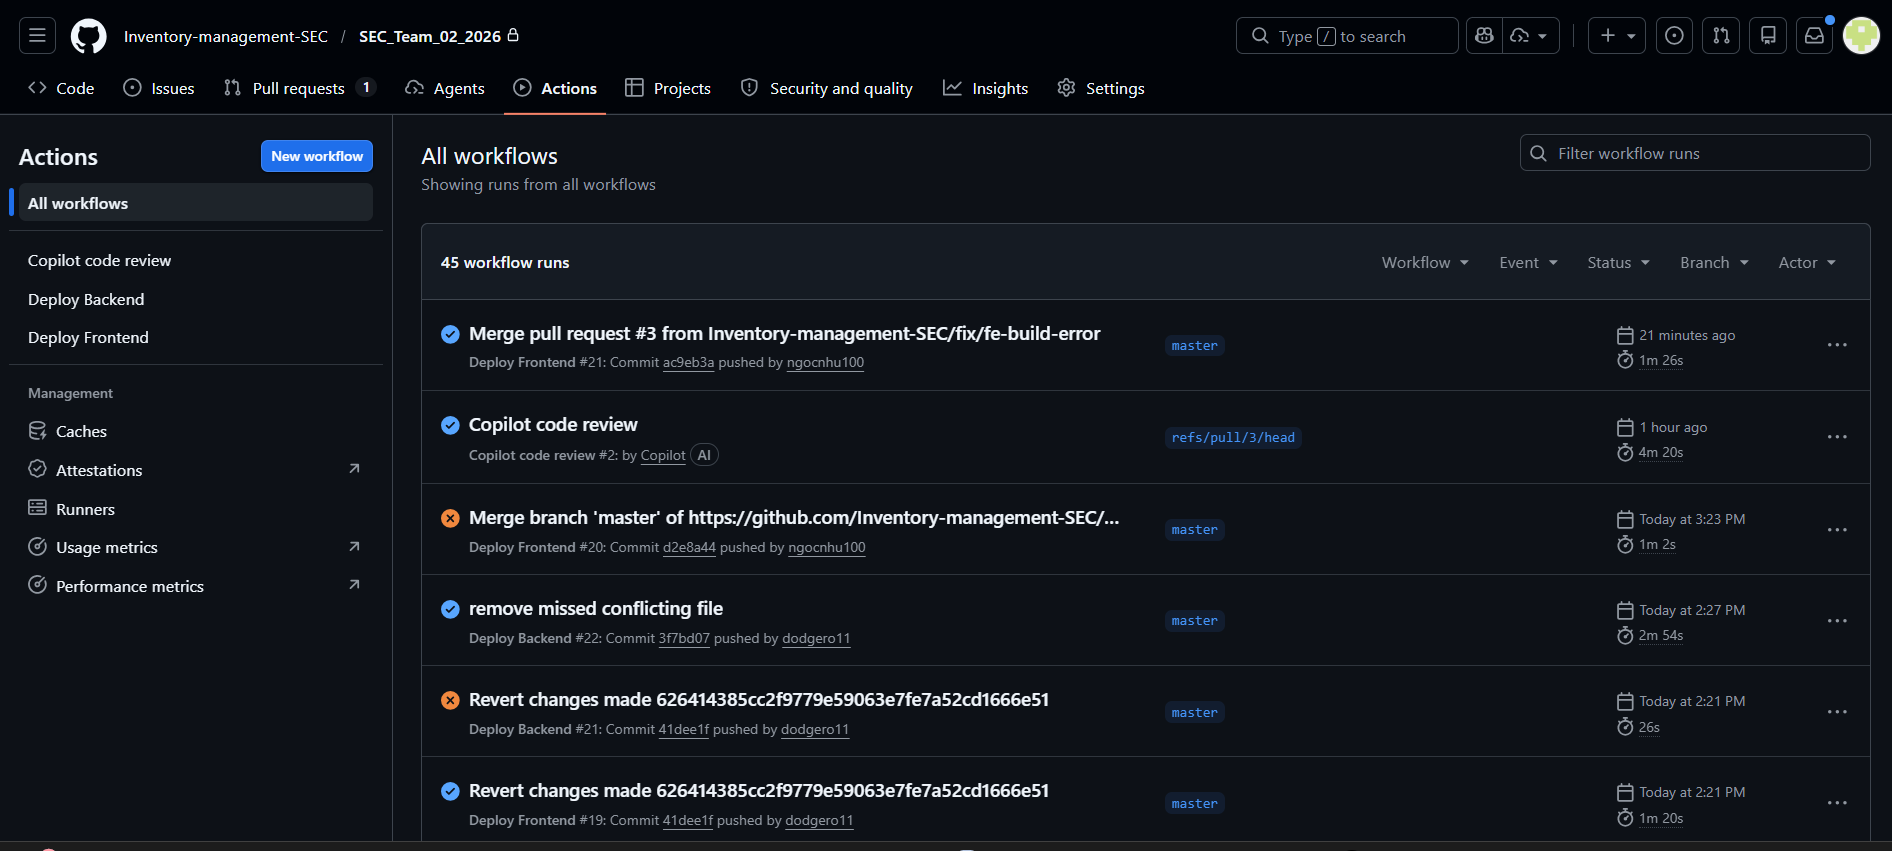
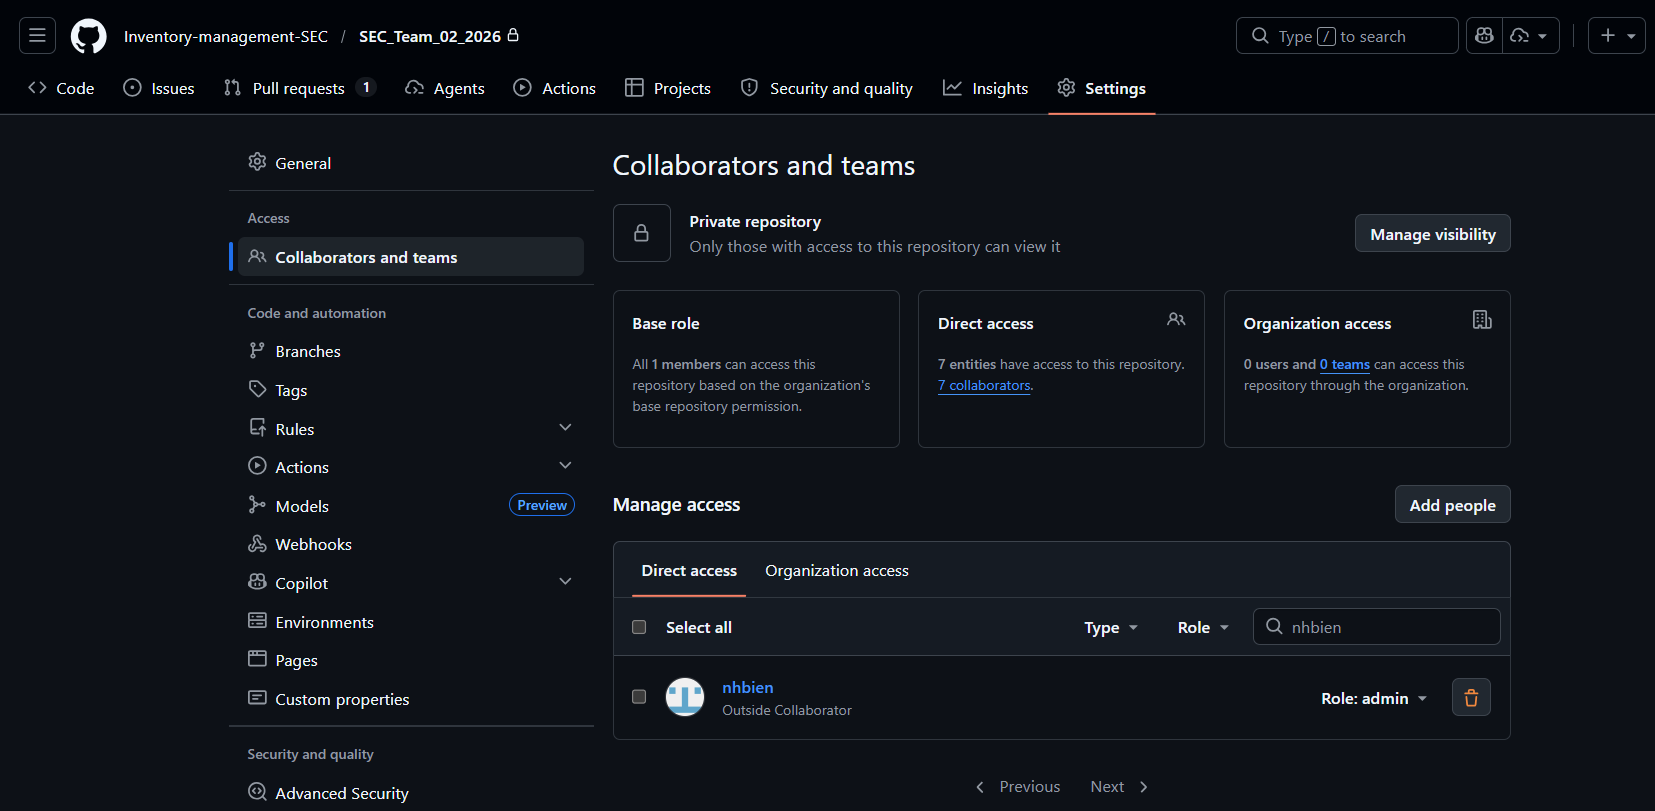
feat: enhance docker-compose configuration for observability with OpenTelemetry and Grafana

diff --git a/02_Source/01_Source Code/DEPLOYMENT.md b/02_Source/01_Source Code/DEPLOYMENT.md
@@ -508,7 +508,8 @@ cd 02_Source/01_Source\ Code
 docker-compose up -d otel-collector tempo loki prometheus alertmanager grafana
 
 # Verify telemetry endpoints
-curl http://localhost:3000/metrics
+# /metrics requires auth token (value from METRICS_AUTH_TOKEN in .env)
+curl -H "x-metrics-token: <METRICS_AUTH_TOKEN>" http://localhost:3000/metrics
 curl http://localhost:9090/-/ready
 curl http://localhost:3100/ready
 curl http://localhost:3200/ready
